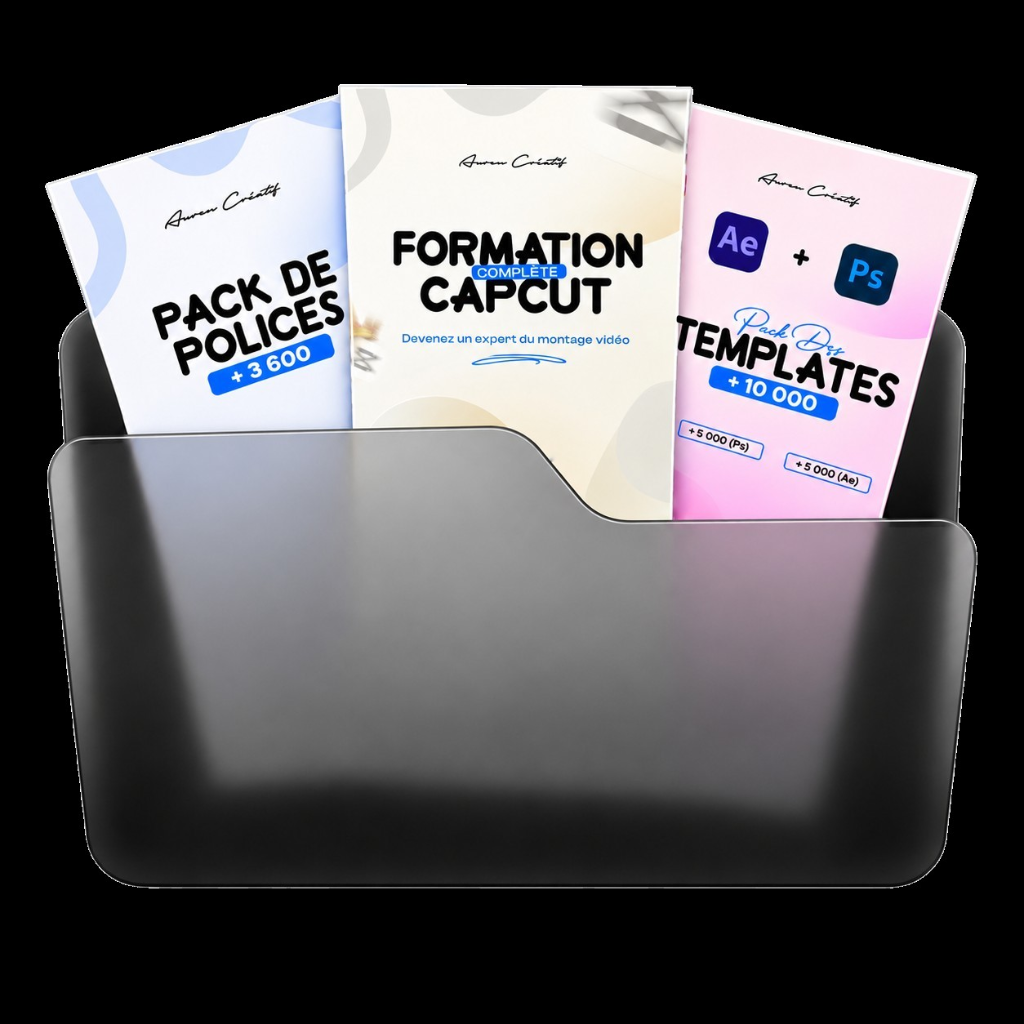
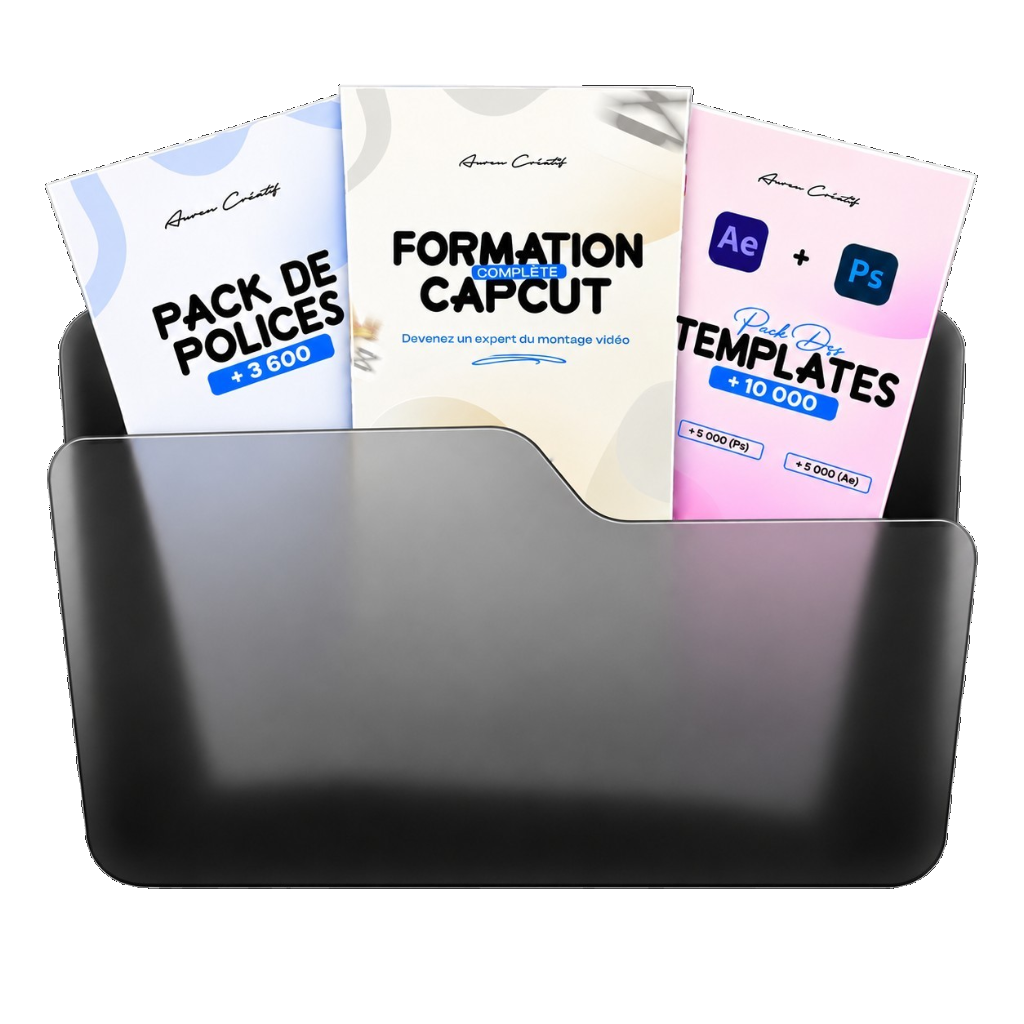
Mise a jour visuelle : mockups sur fond neutre/transparent, integration des 2 ordinateurs unifies et stagnants, animation dynamique des textes

diff --git a/assets/css/formation.css b/assets/css/formation.css
@@ -563,56 +563,54 @@ button {
 }
 
 /* ==========================================================================
-   Dual Laptop 3D Floating Showcase (Photoshop & After Effects - Session PS)
+   Dual Laptop Showcase (Photoshop & After Effects - Photo Relle Unifie Stagnante)
    ========================================================================== */
 .ae-ps-showcase {
   position: relative;
   width: 100%;
-  max-width: 540px;
-  min-height: 420px;
+  max-width: 500px;
   display: flex;
   align-items: center;
   justify-content: center;
   margin: 0 auto;
-  overflow: hidden;
-  contain: paint;
+  background: transparent;
 }
 
-.ae-ps-ambient-glow {
-  position: absolute;
-  width: 320px;
-  height: 320px;
-  border-radius: 50%;
-  background: radial-gradient(circle, rgba(37, 99, 235, 0.22) 0%, rgba(0, 229, 255, 0.08) 50%, transparent 70%);
-  filter: blur(55px);
-  z-index: 0;
-  pointer-events: none;
-}
-
-.laptop-floating-item {
-  position: absolute;
-  filter: drop-shadow(0 20px 30px rgba(16, 42, 86, 0.25));
-}
-
-/* Laptops stagnants / fixes (aucune collision ni dformation) */
-.laptop-ae-wrap {
-  width: 84%;
-  top: -10px;
-  right: -6%;
-  z-index: 1;
-}
-
-.laptop-ps-wrap {
-  width: 84%;
-  bottom: -15px;
-  left: -6%;
-  z-index: 2;
-}
-
-.laptop-floating-item img {
+.unified-laptops-img {
   width: 100%;
+  max-width: 480px;
   height: auto;
   display: block;
+  filter: drop-shadow(0 18px 30px rgba(16, 42, 86, 0.16));
+  transition: transform 0.3s ease;
+}
+
+.laptop-badge-tag {
+  position: absolute;
+  background: rgba(255, 255, 255, 0.95);
+  backdrop-filter: blur(8px);
+  -webkit-backdrop-filter: blur(8px);
+  border: 1px solid rgba(226, 232, 240, 0.95);
+  padding: 0.45rem 0.8rem;
+  border-radius: 9999px;
+  box-shadow: 0 8px 18px rgba(16, 42, 86, 0.12);
+  display: flex;
+  align-items: center;
+  gap: 0.45rem;
+  font-size: 0.78rem;
+  font-weight: 700;
+  color: var(--color-primary-dark);
+  z-index: 3;
+}
+
+.badge-ae {
+  top: 15px;
+  right: 12px;
+}
+
+.badge-ps {
+  bottom: 25px;
+  left: 10px;
 }
 
 /* Animation dynamique et lgante sur le texte de l'offre Templates */
@@ -2052,34 +2050,21 @@ button {
     left: 0;
   }
 
-  /* Dual Laptops After Effects & Photoshop */
+  /* Dual Laptops After Effects & Photoshop (Photo Unifie Stagnante) */
   .ae-ps-showcase {
     max-width: 100%;
-    min-height: 290px;
-    overflow: hidden;
+    min-height: auto;
   }
 
-  .ae-ps-ambient-glow {
-    width: 220px;
-    height: 220px;
-  }
-
-  .laptop-ae-wrap {
-    width: 84%;
-    top: 4px;
-    right: 0;
-  }
-
-  .laptop-ps-wrap {
-    width: 84%;
-    bottom: 4px;
-    left: 0;
+  .unified-laptops-img {
+    max-width: 320px;
+    margin: 0 auto;
   }
 
   .laptop-badge-tag {
     font-size: 0.7rem;
     padding: 0.35rem 0.6rem;
-    border-radius: 8px;
+    border-radius: 9999px;
   }
 
   .badge-ae {
@@ -2365,7 +2350,7 @@ button {
   }
 
   .ae-ps-showcase {
-    min-height: 250px;
+    min-height: auto;
   }
 
   .bundle-highlight-card {
@@ -2431,7 +2416,7 @@ button {
   }
 
   .ae-ps-showcase {
-    min-height: 220px;
+    min-height: auto;
   }
 
   .bundle-main-price {

diff --git a/formation.html b/formation.html
@@ -325,31 +325,21 @@
           </div>
         </article>
 
-        <!-- Offre 3 : Templates AE & PS (Laptops 3D Flottants) -->
+        <!-- Offre 3 : Templates AE & PS (Photo Réelle Unifiée Stagnante sur Fond Neutre) -->
         <article class="product-row reverse" id="offre-templates">
           <div class="product-visual">
             <div class="ae-ps-showcase">
-              <div class="ae-ps-ambient-glow"></div>
+              <img src="assets/images/mockups/laptops-ae-ps-unified.png" alt="Templates After Effects et Photoshop sur ordinateurs portables" class="unified-laptops-img" width="1024" height="1024" loading="lazy">
               
-              <!-- Laptop After Effects (Flottant haut droit) -->
-              <div class="laptop-floating-item laptop-ae-wrap">
-                <img src="assets/images/mockups/laptop-ae-transparent.png" alt="Templates After Effects sur ordinateur portable" width="1024" height="682" loading="lazy">
-                <div class="laptop-badge-tag badge-ae">
-                  <span style="background:#1A002E;color:#9999FF;padding:2px 7px;border-radius:4px;font-weight:900;">Ae</span>
-                  <span>After Effects (.AEP)</span>
-                </div>
+              <!-- Badges logiciels officiels -->
+              <div class="laptop-badge-tag badge-ae">
+                <span style="background:#1A002E;color:#9999FF;padding:2px 7px;border-radius:4px;font-weight:900;">Ae</span>
+                <span>After Effects (.AEP)</span>
               </div>
-
-              <!-- Laptop Photoshop (Flottant bas gauche) -->
-              <div class="laptop-floating-item laptop-ps-wrap">
-                <img src="assets/images/mockups/laptop-ps-transparent.png" alt="Templates Photoshop sur ordinateur portable" width="1024" height="682" loading="lazy">
-                <div class="laptop-badge-tag badge-ps">
-                  <span style="background:#001E36;color:#31A8FF;padding:2px 7px;border-radius:4px;font-weight:900;">Ps</span>
-                  <span>Photoshop (.PSD)</span>
-                </div>
+              <div class="laptop-badge-tag badge-ps">
+                <span style="background:#001E36;color:#31A8FF;padding:2px 7px;border-radius:4px;font-weight:900;">Ps</span>
+                <span>Photoshop (.PSD)</span>
               </div>
-
-              <div class="ae-ps-floor-shadow"></div>
             </div>
           </div>
 
